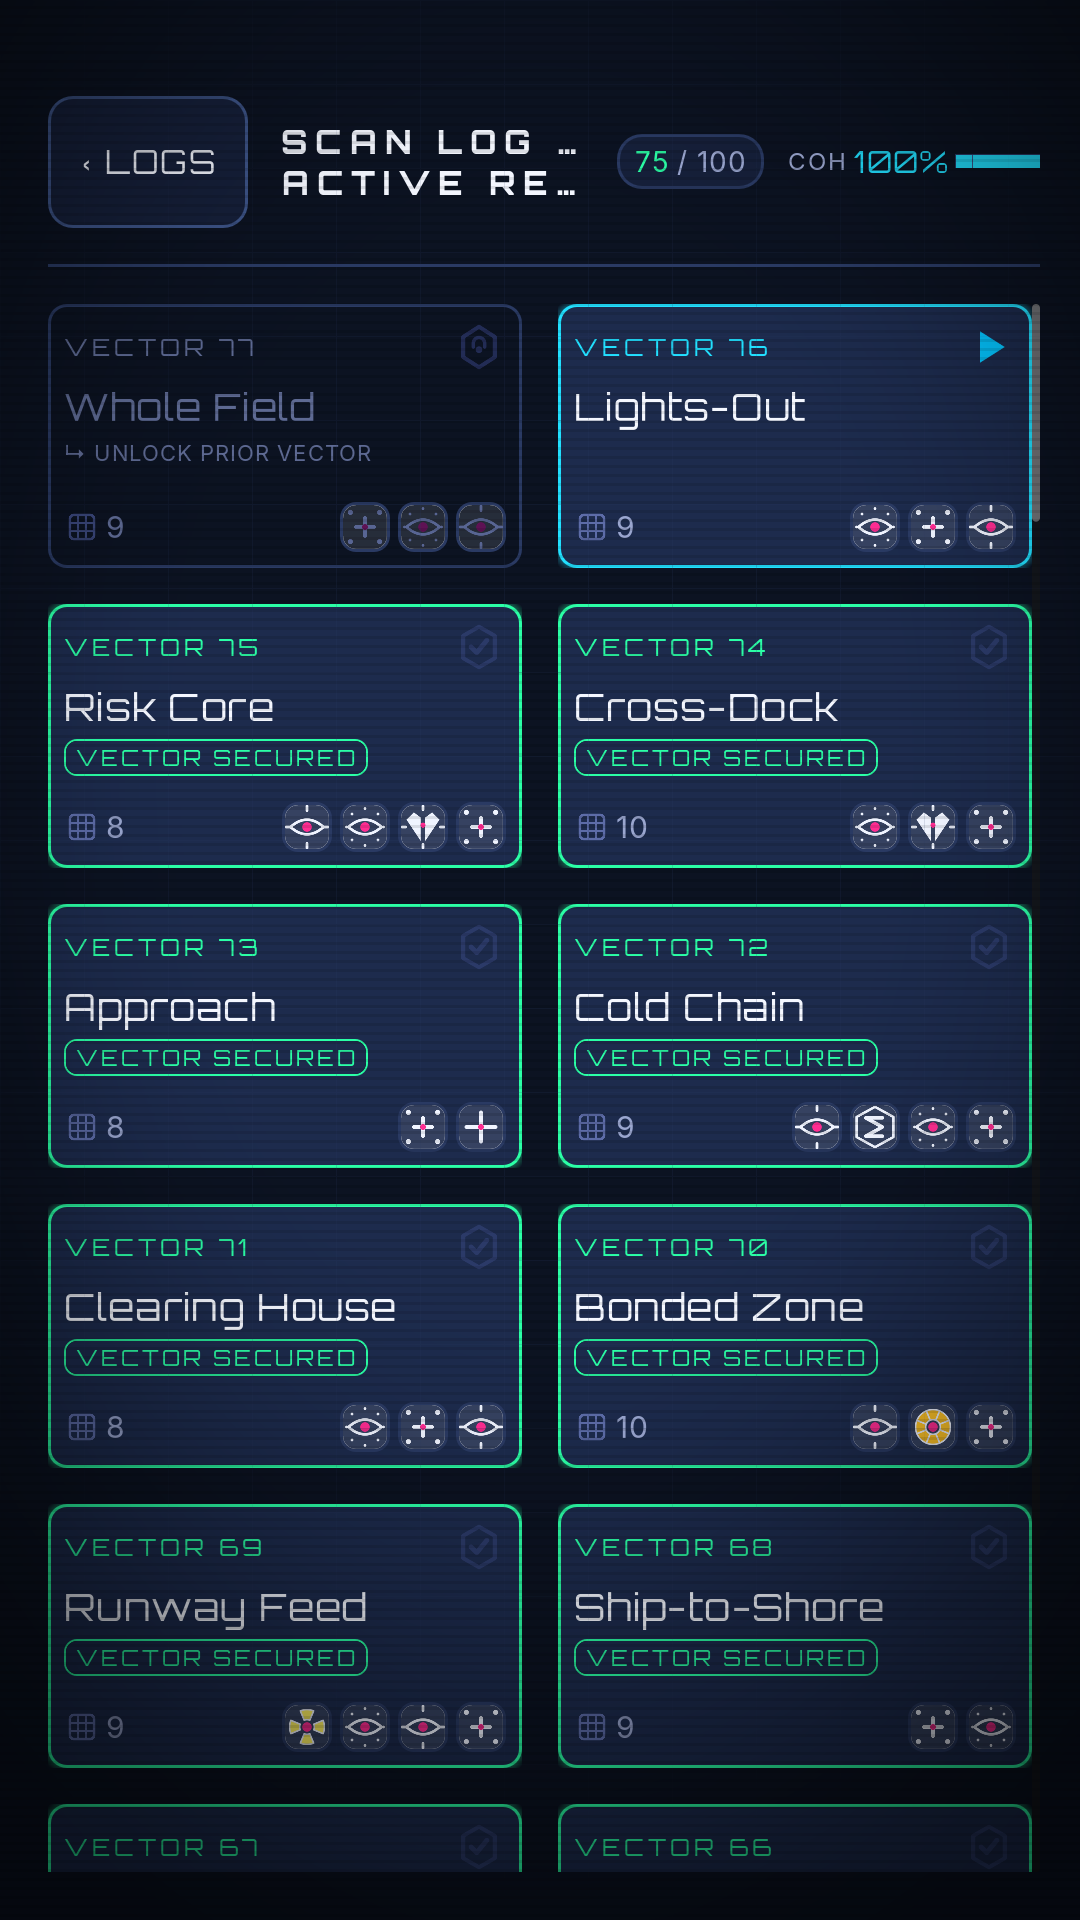
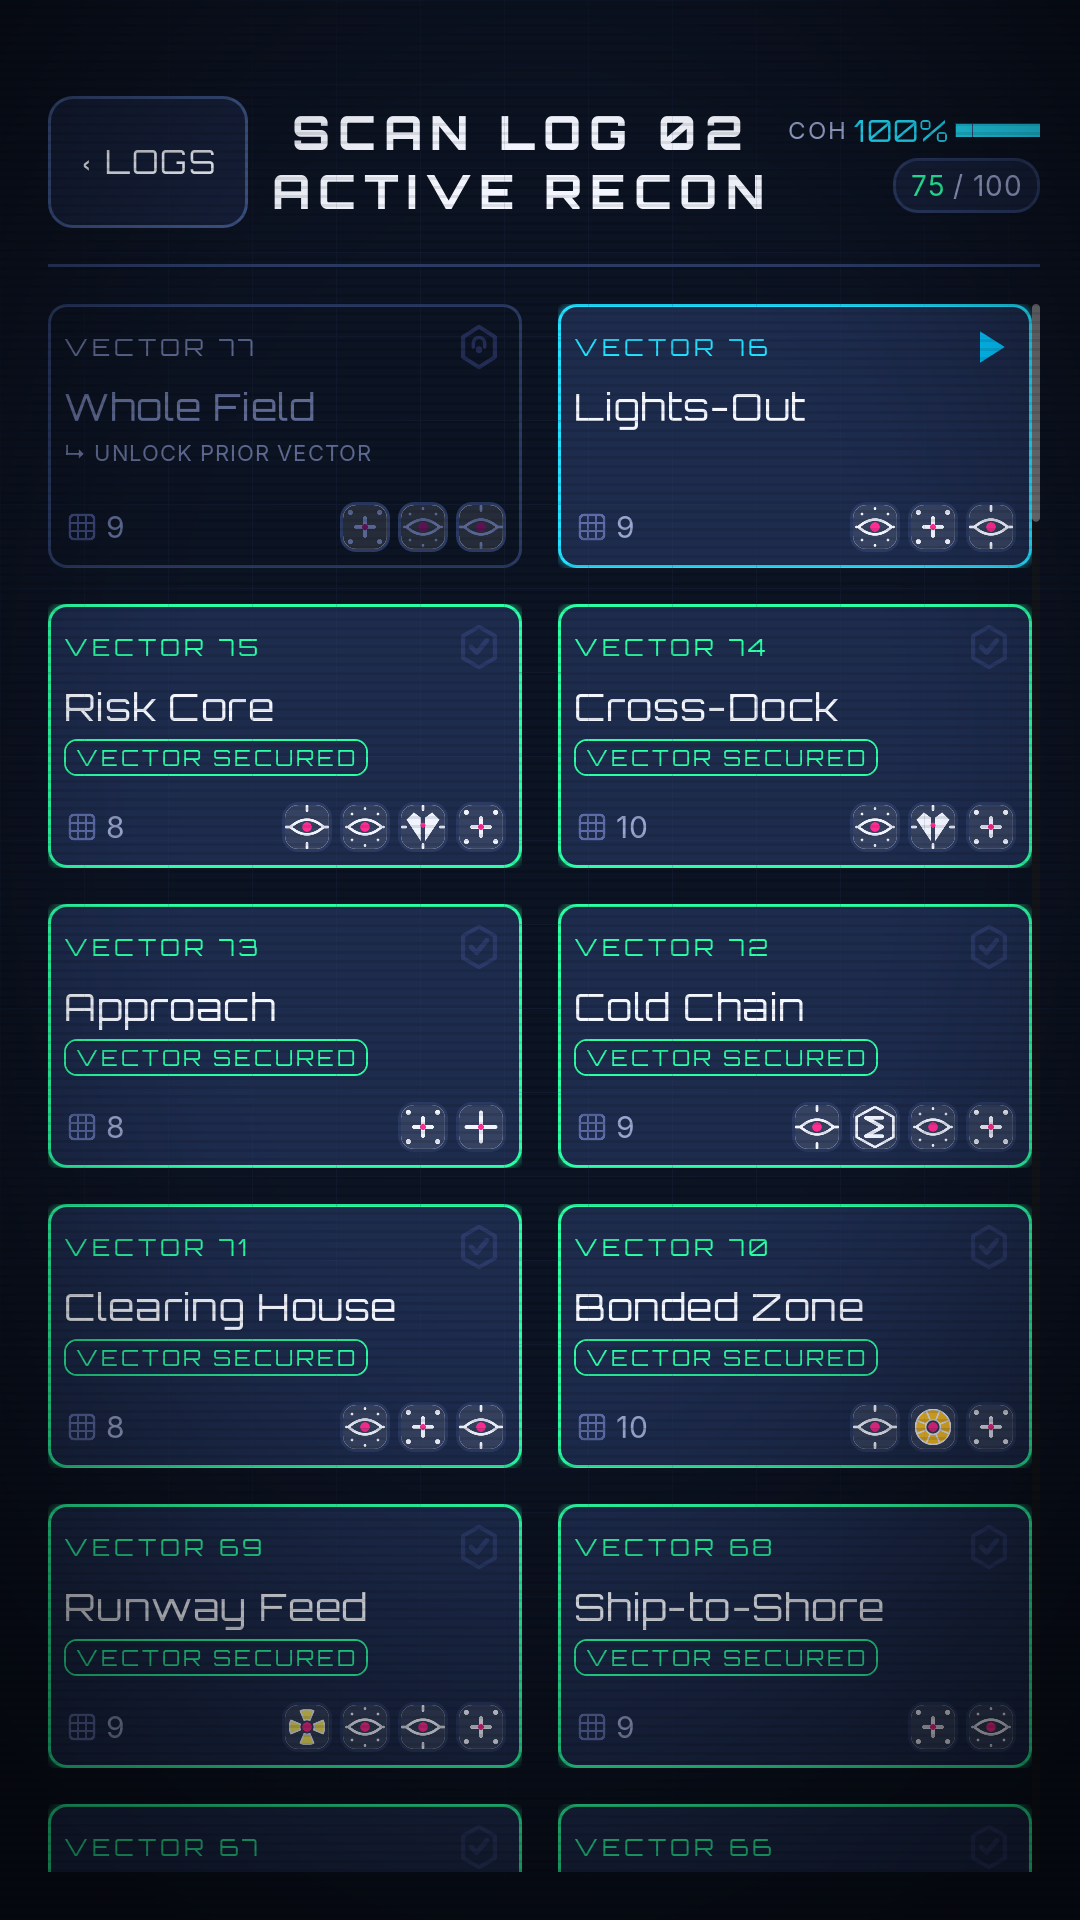
Scan Log header: stack counter under coherence bar (recaptured shot, v4)

Changed region(s): [[0.2444, 0.0625, 0.7028, 0.125], [0.7333, 0.0625, 0.9778, 0.125]]

diff --git a/index.html b/index.html
@@ -68,7 +68,7 @@
         <figcaption>Your current Vector</figcaption>
       </figure>
       <figure>
-        <img src="assets/img/scanlog.png?v=3" alt="Scan Log view listing Vectors with secured/locked states" loading="lazy" />
+        <img src="assets/img/scanlog.png?v=4" alt="Scan Log view listing Vectors with secured/locked states" loading="lazy" />
         <figcaption>Work through a Scan Log</figcaption>
       </figure>
     </div>